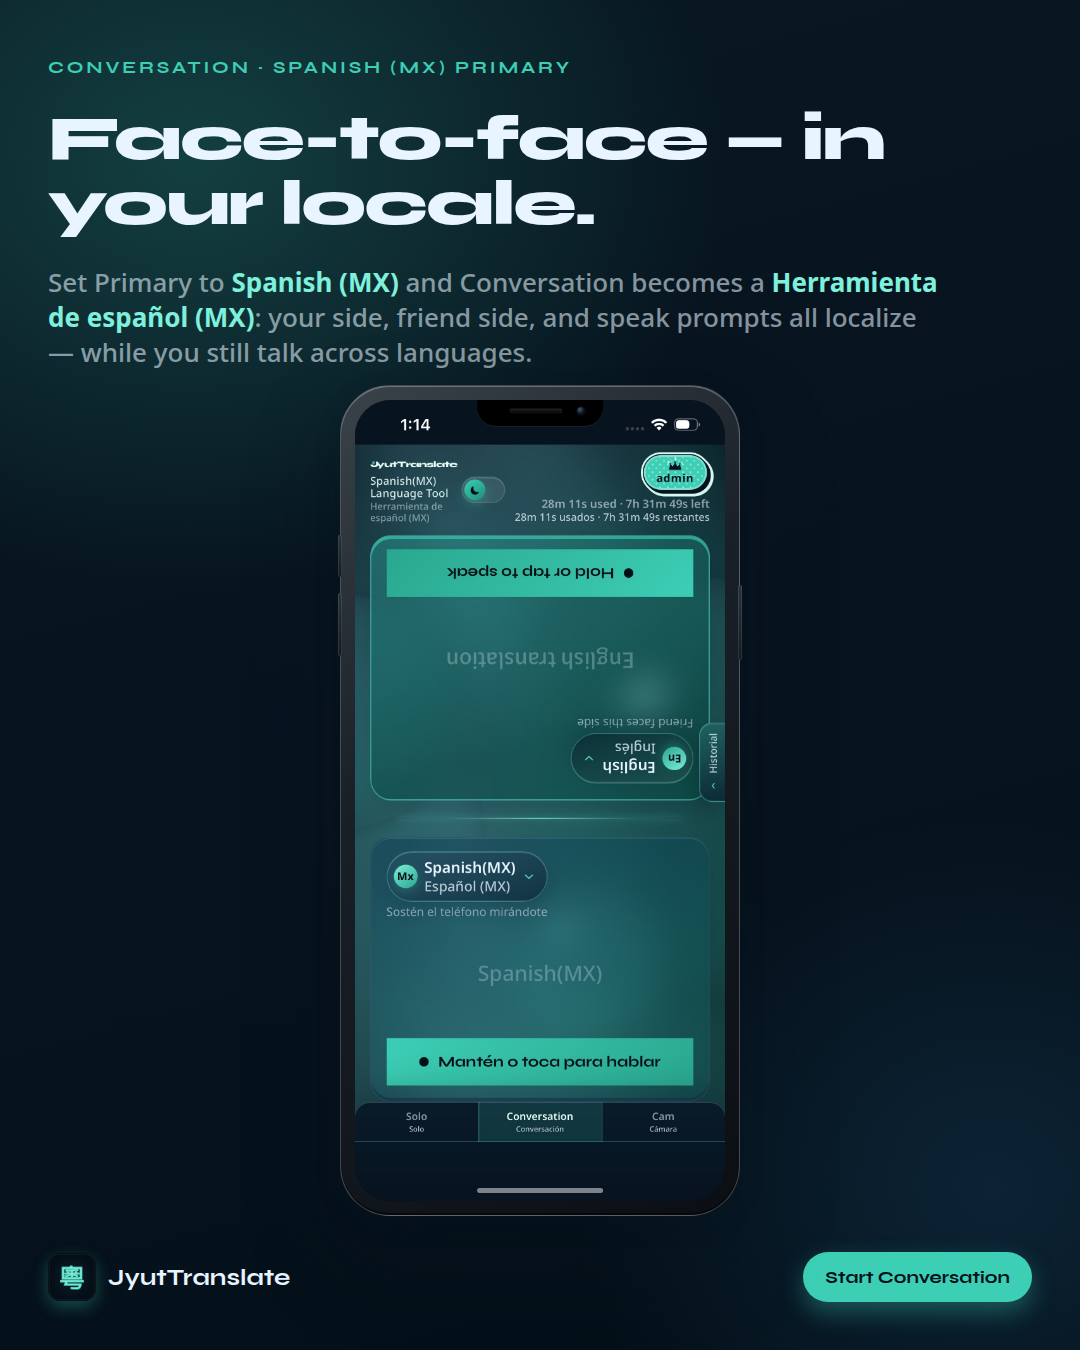
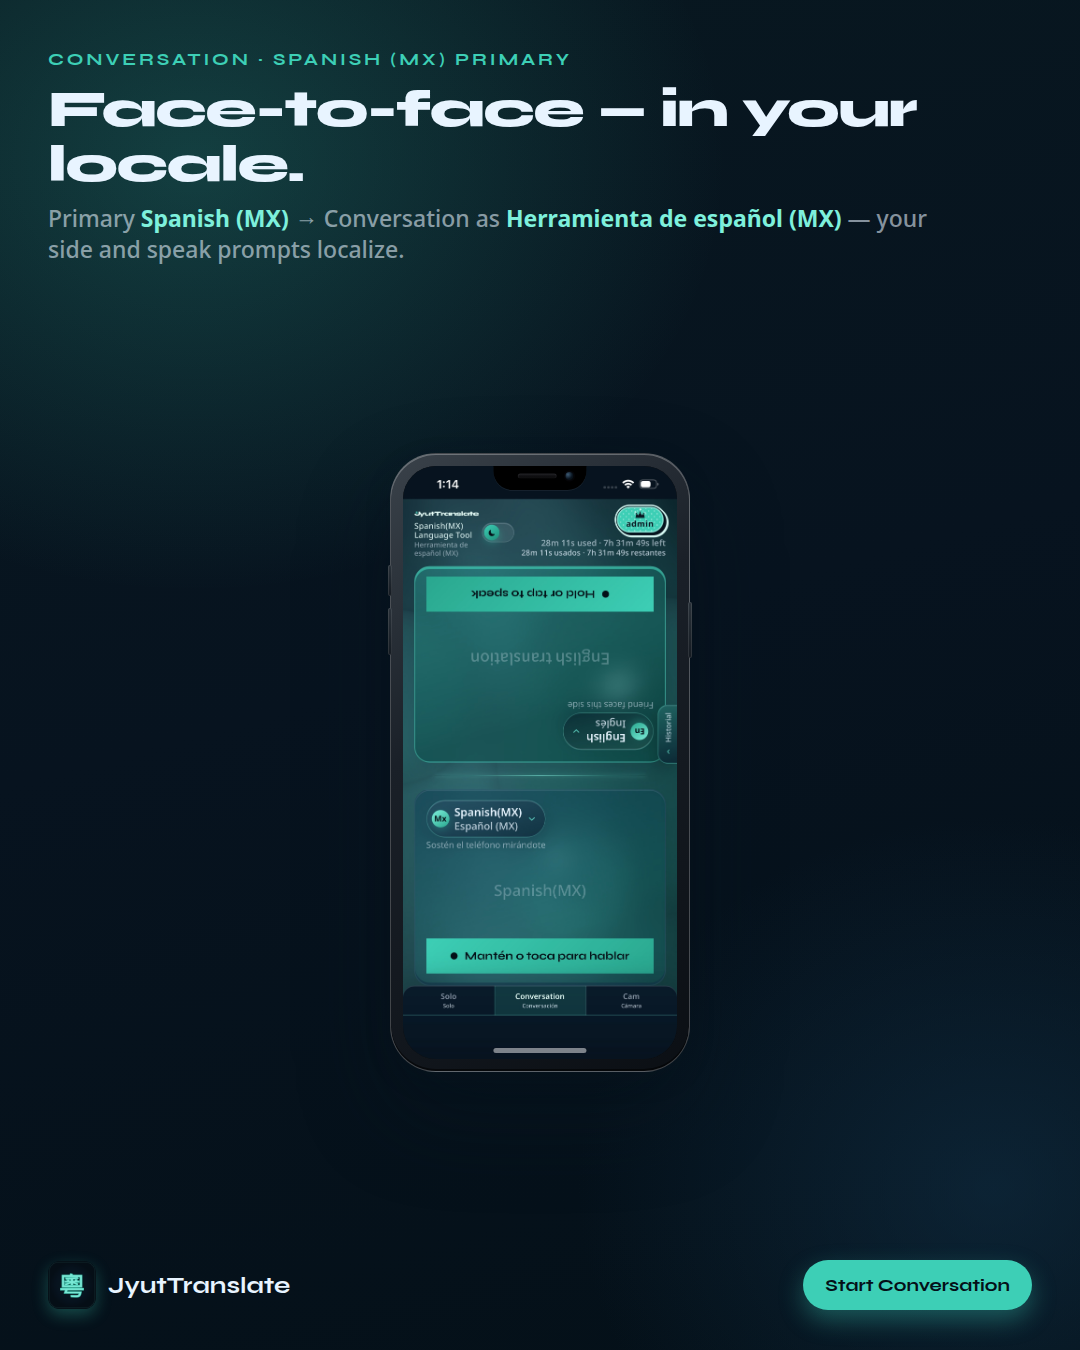
Fix Primary Language IG phones covering headline copy
Shrink device mocks to fit under reserved copy blocks, raise copy
z-index, and shorten long subs so Solo/Convo/Cam/Story text stays clear.

Changed region(s): [[0.0306, 0.0311, 0.8861, 0.9022], [0.7333, 0.9022, 0.9778, 0.9956], [0.0306, 0.9333, 0.275, 0.9644]]

diff --git a/docs/social/ig-posts/primary-lang.css b/docs/social/ig-posts/primary-lang.css
@@ -28,16 +28,26 @@
   position: relative;
   z-index: 1;
   height: 100%;
-  padding: 56px 48px 48px;
+  padding: 48px 48px 40px;
   display: flex;
   flex-direction: column;
-  gap: 28px;
+  gap: 18px;
   box-sizing: border-box;
 }
 
 .primary-lang--story .primary-lang__frame {
-  padding: 72px 48px 64px;
-  gap: 32px;
+  padding: 64px 48px 56px;
+  gap: 22px;
+}
+
+/* Copy always reserved above the phone — never covered */
+.primary-lang__copy {
+  flex: 0 0 auto;
+  position: relative;
+  z-index: 3;
+  display: flex;
+  flex-direction: column;
+  gap: 12px;
 }
 
 .primary-lang__kicker {
@@ -52,23 +62,23 @@
 .primary-lang__title {
   font-family: var(--font-display);
   font-weight: 800;
-  font-size: 64px;
-  line-height: 1.02;
+  font-size: 52px;
+  line-height: 1.05;
   letter-spacing: -0.03em;
   color: var(--ink);
-  max-width: 920px;
+  max-width: 960px;
 }
 
 .primary-lang--story .primary-lang__title {
-  font-size: 58px;
+  font-size: 50px;
 }
 
 .primary-lang__sub {
-  font-size: 26px;
+  font-size: 23px;
   line-height: 1.35;
   font-weight: 500;
   color: var(--ink-mute);
-  max-width: 900px;
+  max-width: 920px;
 }
 
 .primary-lang__sub strong {
@@ -77,44 +87,45 @@
 }
 
 .primary-lang__stage {
-  flex: 1;
+  flex: 1 1 auto;
   min-height: 0;
   display: flex;
   align-items: center;
   justify-content: center;
-  gap: 28px;
+  gap: 24px;
+  position: relative;
+  z-index: 1;
+  overflow: hidden;
 }
 
 .primary-lang__stage--single {
-  align-items: flex-end;
-  padding-bottom: 8px;
-}
-
-.primary-lang--story .primary-lang__stage--single {
   align-items: center;
 }
 
 .primary-lang__stage--hub {
   align-items: center;
   justify-content: space-between;
-  gap: 24px;
+  gap: 28px;
   padding: 0 8px;
 }
 
 .primary-lang__hub-copy {
   flex: 1;
-  max-width: 340px;
+  max-width: 380px;
   display: flex;
   flex-direction: column;
-  gap: 18px;
+  gap: 16px;
+  position: relative;
+  z-index: 3;
+  flex-shrink: 0;
 }
 
 .primary-lang__hub-copy .primary-lang__title {
-  font-size: 52px;
+  font-size: 48px;
 }
 
 .primary-lang__hub-copy .primary-lang__sub {
-  font-size: 22px;
+  font-size: 21px;
 }
 
 .primary-lang__detail {
@@ -146,6 +157,9 @@
 }
 
 .primary-lang__foot {
+  flex: 0 0 auto;
+  position: relative;
+  z-index: 3;
   display: flex;
   align-items: center;
   justify-content: space-between;
@@ -189,26 +203,34 @@
   padding: 16px 26px;
 }
 
-/* Slightly smaller phones so dual / story layouts breathe */
+/*
+ * Fixed phone widths sized so height always fits under copy on 1080×1350 / 1920.
+ * (Do not rely on cqh — invalid calc falls back to lang-launch 420px and covers text.)
+ * 300px wide ≈ 672px tall with bezel; stage has ~750–900px free on post slides.
+ */
 .primary-lang .phone {
-  width: 360px;
-  --phone-bezel: 12px;
-  --phone-radius: 46px;
-  --phone-screen-radius: 33px;
+  --phone-bezel: 11px;
+  --phone-radius: 42px;
+  --phone-screen-radius: 30px;
+  flex-shrink: 0;
+  width: 280px !important;
+  height: auto;
+  max-height: 100%;
+  box-sizing: border-box;
 }
 
 .primary-lang .phone--lg {
-  width: 400px;
-  --phone-bezel: 14px;
-  --phone-radius: 50px;
-  --phone-screen-radius: 36px;
+  --phone-bezel: 12px;
+  --phone-radius: 46px;
+  --phone-screen-radius: 33px;
+  width: 300px !important;
 }
 
 .primary-lang--story .phone--story {
-  width: 520px;
-  --phone-bezel: 16px;
-  --phone-radius: 56px;
-  --phone-screen-radius: 40px;
+  --phone-bezel: 14px;
+  --phone-radius: 52px;
+  --phone-screen-radius: 37px;
+  width: 420px !important;
 }
 
 .primary-lang__langs {
@@ -240,7 +262,7 @@
   flex-direction: column;
   justify-content: flex-start;
   align-items: stretch;
-  gap: 24px;
+  gap: 20px;
   padding: 0;
   flex: 1;
   min-height: 0;
@@ -249,15 +271,16 @@
 .primary-lang--story .primary-lang__hub-copy {
   max-width: none;
   width: 100%;
-  gap: 14px;
+  gap: 12px;
+  flex-shrink: 0;
 }
 
 .primary-lang--story .primary-lang__hub-copy .primary-lang__title {
-  font-size: 52px;
+  font-size: 48px;
 }
 
 .primary-lang--story .primary-lang__hub-copy .primary-lang__sub {
-  font-size: 24px;
+  font-size: 23px;
   max-width: 980px;
 }
 
@@ -268,17 +291,28 @@
   align-items: center;
   justify-content: space-between;
   gap: 20px;
+  overflow: hidden;
 }
 
 .primary-lang--story .primary-lang__detail {
-  width: 420px;
+  width: 380px;
   flex-shrink: 0;
   border-radius: 24px;
 }
 
 .primary-lang--story .phone--story-hub {
-  width: 440px;
-  --phone-bezel: 14px;
-  --phone-radius: 52px;
-  --phone-screen-radius: 38px;
+  --phone-bezel: 13px;
+  --phone-radius: 48px;
+  --phone-screen-radius: 34px;
+  width: 360px !important;
+  height: auto;
+  max-height: 100%;
+}
+
+/* Hub post: keep left copy clear of the phone */
+.primary-lang__stage--hub .phone {
+  width: 320px !important;
+  flex-shrink: 0;
+  align-self: center;
+  max-height: 100%;
 }

diff --git a/docs/social/ig-posts/primary-lang-03-convo.html b/docs/social/ig-posts/primary-lang-03-convo.html
@@ -16,13 +16,14 @@
     </div>
     <article class="primary-lang" id="post">
       <div class="primary-lang__frame">
+        <div class="primary-lang__copy">
         <div class="primary-lang__kicker">Conversation · Spanish (MX) primary</div>
-        <h1 class="primary-lang__title">Face-to-face — in your locale.</h1>
-        <p class="primary-lang__sub">
-          Set Primary to <strong>Spanish (MX)</strong> and Conversation becomes a
-          <strong>Herramienta de español (MX)</strong>: your side, friend side, and speak prompts
-          all localize — while you still talk across languages.
-        </p>
+          <h1 class="primary-lang__title">Face-to-face — in your locale.</h1>
+          <p class="primary-lang__sub">
+            Primary <strong>Spanish (MX)</strong> → Conversation as
+            <strong>Herramienta de español (MX)</strong> — your side and speak prompts localize.
+          </p>
+        </div>
         <div class="primary-lang__stage primary-lang__stage--single">
           <div class="phone phone--lg">
             <span class="phone__side phone__side--vol-up" aria-hidden="true"></span>

diff --git a/docs/social/ig-posts/primary-lang-04-cam.html b/docs/social/ig-posts/primary-lang-04-cam.html
@@ -16,13 +16,14 @@
     </div>
     <article class="primary-lang" id="post">
       <div class="primary-lang__frame">
+        <div class="primary-lang__copy">
         <div class="primary-lang__kicker">Cam · Vietnamese primary</div>
-        <h1 class="primary-lang__title">Cam menus speak your language too.</h1>
-        <p class="primary-lang__sub">
-          Primary <strong>Vietnamese</strong> turns Camera translation into
-          <strong>Dịch bằng camera</strong> — AR, upload, and documents labeled in Vietnamese,
-          so the whole flow feels native.
-        </p>
+          <h1 class="primary-lang__title">Cam menus speak your language too.</h1>
+          <p class="primary-lang__sub">
+            Primary <strong>Vietnamese</strong> → <strong>Dịch bằng camera</strong> —
+            AR, upload, and documents labeled so the flow feels native.
+          </p>
+        </div>
         <div class="primary-lang__stage primary-lang__stage--single">
           <div class="phone phone--lg">
             <span class="phone__side phone__side--vol-up" aria-hidden="true"></span>

diff --git a/docs/social/ig-posts/primary-lang-03-convo-story.html b/docs/social/ig-posts/primary-lang-03-convo-story.html
@@ -16,12 +16,14 @@
     </div>
     <article class="primary-lang primary-lang--story" id="post">
       <div class="primary-lang__frame">
+        <div class="primary-lang__copy">
         <div class="primary-lang__kicker">Conversation · Spanish (MX) primary</div>
-        <h1 class="primary-lang__title">Face-to-face — in your locale.</h1>
-        <p class="primary-lang__sub">
-          Primary <strong>Spanish (MX)</strong> → Conversation as
-          <strong>Herramienta de español (MX)</strong>. Your side localizes; you still talk across languages.
-        </p>
+          <h1 class="primary-lang__title">Face-to-face — in your locale.</h1>
+          <p class="primary-lang__sub">
+            Primary <strong>Spanish (MX)</strong> → Conversation as
+            <strong>Herramienta de español (MX)</strong> — your side and speak prompts localize.
+          </p>
+        </div>
         <div class="primary-lang__stage primary-lang__stage--single">
           <div class="phone phone--story">
             <span class="phone__side phone__side--vol-up" aria-hidden="true"></span>

diff --git a/docs/social/ig-posts/primary-lang-02-solo-story.html b/docs/social/ig-posts/primary-lang-02-solo-story.html
@@ -16,12 +16,14 @@
     </div>
     <article class="primary-lang primary-lang--story" id="post">
       <div class="primary-lang__frame">
+        <div class="primary-lang__copy">
         <div class="primary-lang__kicker">Solo · Cantonese primary</div>
-        <h1 class="primary-lang__title">Your home language shows up everywhere.</h1>
-        <p class="primary-lang__sub">
-          Primary <strong>Cantonese</strong> → Solo as a <strong>粵語語言工具</strong> —
-          panes, placeholders, and speak CTA follow your locale.
-        </p>
+          <h1 class="primary-lang__title">Your home language shows up everywhere.</h1>
+          <p class="primary-lang__sub">
+            Primary <strong>Cantonese</strong> → Solo as a <strong>粵語語言工具</strong> —
+            panes, placeholders, and speak CTA follow your locale.
+          </p>
+        </div>
         <div class="primary-lang__stage primary-lang__stage--single">
           <div class="phone phone--story">
             <span class="phone__side phone__side--vol-up" aria-hidden="true"></span>

diff --git a/docs/social/ig-posts/primary-lang-02-solo.html b/docs/social/ig-posts/primary-lang-02-solo.html
@@ -16,12 +16,14 @@
     </div>
     <article class="primary-lang" id="post">
       <div class="primary-lang__frame">
+        <div class="primary-lang__copy">
         <div class="primary-lang__kicker">Solo · Cantonese primary</div>
-        <h1 class="primary-lang__title">Your home language shows up everywhere.</h1>
-        <p class="primary-lang__sub">
-          With <strong>Cantonese</strong> as Primary, Solo opens as a
-          <strong>粵語語言工具</strong> — panes, placeholders, and speak CTA follow your locale.
-        </p>
+          <h1 class="primary-lang__title">Your home language shows up everywhere.</h1>
+          <p class="primary-lang__sub">
+            With <strong>Cantonese</strong> as Primary, Solo opens as a
+            <strong>粵語語言工具</strong> — panes, placeholders, and speak CTA follow your locale.
+          </p>
+        </div>
         <div class="primary-lang__stage primary-lang__stage--single">
           <div class="phone phone--lg">
             <span class="phone__side phone__side--vol-up" aria-hidden="true"></span>

diff --git a/docs/social/ig-posts/primary-lang-04-cam-story.html b/docs/social/ig-posts/primary-lang-04-cam-story.html
@@ -16,12 +16,14 @@
     </div>
     <article class="primary-lang primary-lang--story" id="post">
       <div class="primary-lang__frame">
+        <div class="primary-lang__copy">
         <div class="primary-lang__kicker">Cam · Vietnamese primary</div>
-        <h1 class="primary-lang__title">Cam menus speak your language too.</h1>
-        <p class="primary-lang__sub">
-          Primary <strong>Vietnamese</strong> → <strong>Dịch bằng camera</strong> —
-          AR, upload, and documents labeled so the whole flow feels native.
-        </p>
+          <h1 class="primary-lang__title">Cam menus speak your language too.</h1>
+          <p class="primary-lang__sub">
+            Primary <strong>Vietnamese</strong> → <strong>Dịch bằng camera</strong> —
+            AR, upload, and documents labeled so the flow feels native.
+          </p>
+        </div>
         <div class="primary-lang__stage primary-lang__stage--single">
           <div class="phone phone--story">
             <span class="phone__side phone__side--vol-up" aria-hidden="true"></span>
